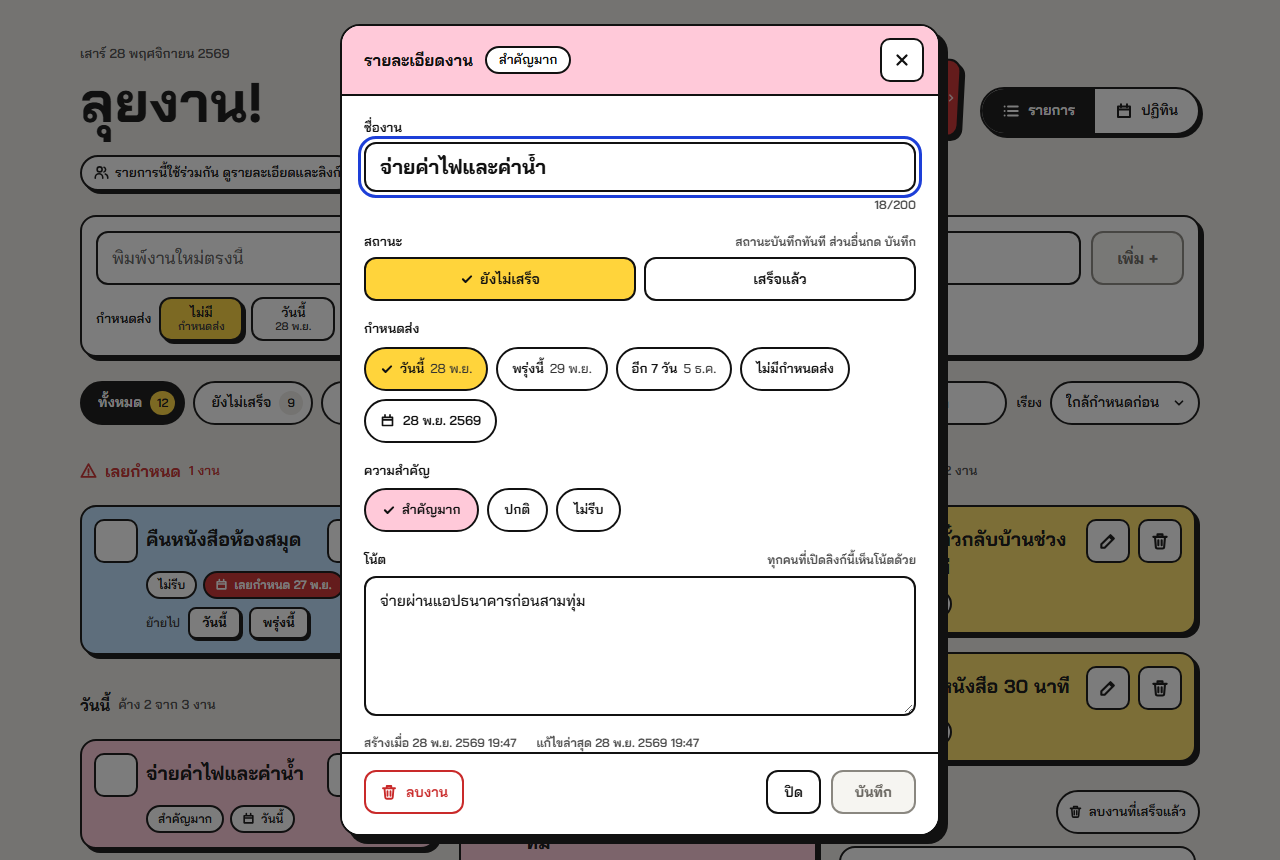
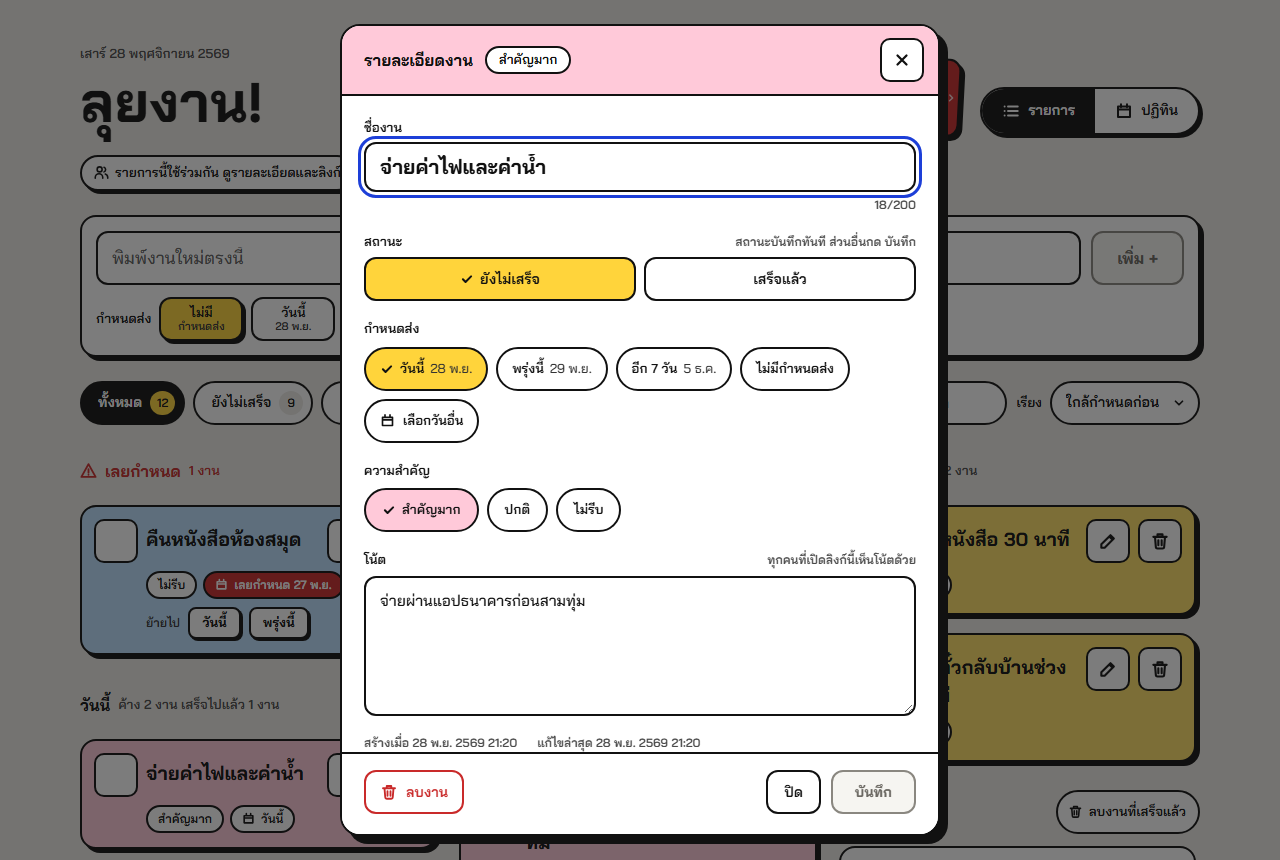
Round 6 user-view fixes: search vs filter, today heading, past-date hints, calendar month panel, chip fit at 360px, detail focus and labels, toasts, lone group grid, sort label

diff --git a/src/composables/useListUi.ts b/src/composables/useListUi.ts
@@ -20,7 +20,7 @@ export const FILTERS: { key: FilterKey; label: string }[] = [
 export const SORTS: { key: SortKey; label: string }[] = [
   { key: 'due', label: 'ใกล้กำหนดก่อน' },
   { key: 'priority', label: 'สำคัญก่อน' },
-  { key: 'newest', label: 'เพิ่มล่าสุด' },
+  { key: 'newest', label: 'เพิ่มล่าสุดก่อน' },
 ]
 
 function matches(done: boolean, t: Todo, f: FilterKey): boolean {
@@ -122,9 +122,14 @@ export interface NoteHit {
 export function useListUi() {
   const { todos, effDone, todayProgress } = useTodos()
 
+  const hit = (t: Todo, q: string) => !q || t.title.toLowerCase().includes(q) || (t.notes ?? '').toLowerCase().includes(q)
+
+  /** Chip numbers. While searching they count the matches, so they agree with the cards (round 6, M5). */
   const counts = computed(() => {
+    const q = query.value.trim().toLowerCase()
     const out: Record<FilterKey, number> = { all: 0, active: 0, done: 0, overdue: 0 }
     for (const t of todos.value) {
+      if (!hit(t, q)) continue
       for (const f of FILTERS) if (matches(t.is_completed, t, f.key)) out[f.key]++
     }
     return out
@@ -132,12 +137,13 @@ export function useListUi() {
 
   const visible = computed(() => {
     const q = query.value.trim().toLowerCase()
-    return todos.value.filter(
-      (t) =>
-        matches(effDone(t), t, filter.value) &&
-        (!q || t.title.toLowerCase().includes(q) || (t.notes ?? '').toLowerCase().includes(q)),
-    )
+    return todos.value.filter((t) => matches(effDone(t), t, filter.value) && hit(t, q))
   })
+
+  /** A search found nothing under the chosen filter, but it does match tasks under ทั้งหมด (round 6, M1). */
+  const hiddenByFilter = computed(() =>
+    query.value.trim() && filter.value !== 'all' && visible.value.length === 0 ? counts.value.all : 0,
+  )
 
   /**
    * The visible tasks cut into labelled groups in the order of the chosen sort. Done tasks are
@@ -164,9 +170,11 @@ export function useListUi() {
       else items.sort(byNewest)
       const count = items.filter((t) => t.is_completed === (key === 'done')).length
       let countText = `${count} งาน`
-      if (key === 'today' && s === 'due') {
+      // Today's group under ทั้งหมด: the done ones sit in เสร็จแล้ว, so say how many went there
+      // instead of "2 จาก 3" over two cards (round 6, M5). Same totals as the yellow sticker.
+      if (key === 'today' && s === 'due' && filter.value === 'all' && !query.value.trim()) {
         const { done, total } = todayProgress.value
-        if (done > 0) countText = `ค้าง ${total - done} จาก ${total} งาน`
+        if (done > 0) countText = `ค้าง ${total - done} งาน เสร็จไปแล้ว ${done} งาน`
       }
       out.push({ key, label: GROUP_LABEL[key], items, count, countText })
     }
@@ -210,6 +218,10 @@ export function useListUi() {
 
   const emptyText = computed(() => {
     const q = query.value.trim()
+    if (q && hiddenByFilter.value) {
+      const label = FILTERS.find((f) => f.key === filter.value)?.label ?? ''
+      return `ไม่พบ “${q}” ใน${label} แต่มีในงานทั้งหมด ${hiddenByFilter.value} งาน`
+    }
     if (q) return `ไม่พบงานที่ตรงกับ “${q}”`
     if (filter.value === 'active') return 'ไม่มีงานค้าง เคลียร์หมดแล้ว'
     if (filter.value === 'done') return 'ยังไม่มีงานที่เสร็จ'
@@ -238,6 +250,7 @@ export function useListUi() {
     visible,
     groups,
     emptyText,
+    hiddenByFilter,
     toggleSearch,
     tickMessage,
     noteHit,

diff --git a/src/components/DetailDialog.vue b/src/components/DetailDialog.vue
@@ -54,6 +54,7 @@ const original = ref<Draft>({ ...draft })
 
 const section = ref<HTMLElement | null>(null)
 const titleInput = ref<HTMLInputElement | null>(null)
+const headingEl = ref<HTMLElement | null>(null)
 const keepButton = ref<HTMLButtonElement | null>(null)
 
 const showConfirm = ref(false)
@@ -91,9 +92,14 @@ watch(
     statusNote.value = ''
     clearErrors()
     // An old error toast would only cover the dialog; the dialog shows its own errors (R2-07).
-    if (toast.value?.kind === 'error') dismissToast()
+    // A plain notice (copied link, saved) would cover its heading too; only a toast with a
+    // button, like เลิกทำ, stays (round 6, L4).
+    if (toast.value && (toast.value.kind === 'error' || !toast.value.actionLabel)) dismissToast()
     await nextTick()
-    titleInput.value?.focus()
+    // On a touch screen focusing the title would open the keyboard over the sheet when the
+    // person only wants to read; focus the heading there instead (round 6, L2).
+    if (window.matchMedia('(pointer: coarse)').matches) headingEl.value?.focus()
+    else titleInput.value?.focus()
   },
   { immediate: true },
 )
@@ -323,7 +329,7 @@ const sectionClass = toRef(() =>
         :class="band"
       >
         <div class="flex flex-wrap items-center gap-x-3 gap-y-0.5">
-          <h2 :id="ids.heading" class="m-0 text-[0.9375rem] leading-normal font-bold sm:text-[1rem]">รายละเอียดงาน</h2>
+          <h2 :id="ids.heading" ref="headingEl" tabindex="-1" class="m-0 focus:outline-none text-[0.9375rem] leading-normal font-bold sm:text-[1rem]">รายละเอียดงาน</h2>
           <!-- Importance always, and done as a badge of its own, so neither replaces the other (U7). -->
           <span class="rounded-full border-2 bg-white px-3 py-0.5 text-[0.8125rem] leading-normal font-semibold" data-detail-priority>
             {{ PRIORITY_LABEL[draft.priority] }}
@@ -357,7 +363,6 @@ const sectionClass = toRef(() =>
               :aria-describedby="ids.titleCount"
               :aria-invalid="!!titleError"
               class="field box-border h-12.5 text-[1.0625rem] font-bold sm:text-[1.25rem]"
-              :class="draft.is_completed && 'line-through'"
             />
             <div class="flex justify-between gap-2">
               <span v-if="titleError" role="alert" class="text-[0.75rem] leading-normal font-semibold text-danger">
@@ -396,7 +401,7 @@ const sectionClass = toRef(() =>
           <div class="flex flex-col gap-2">
             <span :id="ids.due" class="label">กำหนดส่ง</span>
             <div role="group" :aria-labelledby="ids.due" class="flex">
-              <DuePicker v-model="draft.due" :done="draft.is_completed" />
+              <DuePicker v-model="draft.due" :done="draft.is_completed" :saved="original.due" />
             </div>
             <div
               v-if="overdueNow"

diff --git a/src/views/ListView.vue b/src/views/ListView.vue
@@ -18,7 +18,7 @@ import { estimateCard, splitColumns } from '../utils/columns'
 import { isOverdue, today } from '../utils/date'
 
 const { status, total } = useTodos()
-const { groups, emptyText, noteHit } = useListUi()
+const { groups, emptyText, noteHit, hiddenByFilter, filter } = useListUi()
 const isSm = useIsSm()
 const isLg = useIsLg()
 const { sheetOpen, fabShown, openSheet, due, priority } = useAddForm()
@@ -49,6 +49,9 @@ const columns = computed(() => {
     return estimateCard(t, extra)
   })
 })
+/* One group alone (for example the เสร็จแล้ว filter) fills the width as a grid of cards instead of one narrow column (round 6, L8). */
+const lone = computed(() => isSm.value && groups.value.length === 1)
+
 const grid =
   'm-0 grid list-none gap-3 p-0 pr-1 pb-1 sm:grid-cols-[repeat(auto-fill,minmax(17.5rem,1fr))] sm:gap-4.5 lg:grid-cols-[repeat(auto-fill,minmax(20rem,1fr))]'
 </script>
@@ -82,8 +85,31 @@ const grid =
         class="col-span-full rounded-2xl border-2 border-dashed px-4 py-7 text-center text-[0.9375rem] leading-normal font-bold sm:py-10 sm:text-[1rem]"
       >
         {{ emptyText }}
+        <div v-if="hiddenByFilter" class="mt-3 flex justify-center">
+          <button type="button" class="btn-pill bg-white px-4 text-[0.875rem] font-semibold" data-show-all @click="filter = 'all'">ดูในทั้งหมด</button>
+        </div>
       </li>
     </ul>
+    <section v-else-if="lone" class="flex flex-col gap-2.5 sm:gap-3" :aria-labelledby="`group-${groups[0].key}`" :data-group="groups[0].key" data-card-list>
+      <div class="flex min-h-11 flex-wrap items-center justify-between gap-x-3 gap-y-1.5">
+        <h2
+          :id="`group-${groups[0].key}`"
+          tabindex="-1"
+          class="m-0 flex scroll-mt-4 items-center gap-2 text-[0.9375rem] leading-normal font-bold focus:outline-none sm:text-[1rem]"
+          :class="groups[0].key === 'overdue' && 'text-danger'"
+        >
+          <Icon v-if="groups[0].key === 'overdue'" name="alert" :size="17" :stroke="2.6" />
+          {{ groups[0].label }}
+          <span class="text-[0.8125rem] font-semibold" :class="groups[0].key === 'overdue' ? 'text-danger' : 'text-muted'">
+            {{ groups[0].countText }}
+          </span>
+        </h2>
+        <ClearDone v-if="groups[0].key === 'done'" />
+      </div>
+      <ul :class="[grid, 'items-start']">
+        <TodoCard v-for="t in groups[0].items" :key="t.id" :todo="t" />
+      </ul>
+    </section>
     <div v-else class="grid items-start gap-x-4.5 gap-y-6 sm:grid-cols-2 lg:grid-cols-3" data-card-list>
       <div v-for="(col, ci) in columns" :key="ci" class="flex min-w-0 flex-col gap-6" data-column>
         <section

diff --git a/src/components/DuePicker.vue b/src/components/DuePicker.vue
@@ -13,8 +13,10 @@ const props = withDefaults(
     modelValue: string
     /** The task is already done, so a past date will not make it overdue. */
     done?: boolean
+    /** The date the task has now: no "you picked a past date" hint for it (round 6, M3). */
+    saved?: string
   }>(),
-  { done: false },
+  { done: false, saved: undefined },
 )
 const emit = defineEmits<{ 'update:modelValue': [value: string] }>()
 
@@ -26,6 +28,8 @@ const value = computed({
 
 /** A date already gone: allowed, but say it will be overdue at once (UI 6). */
 const past = computed(() => !props.done && isPastDate(props.modelValue, today.value))
+/** The hint only for a past date picked just now; the saved one has the red move box (round 6, M3). */
+const pastHint = computed(() => past.value && props.modelValue !== props.saved)
 /** A picked date that is none of the quick options: the date pill is the selected one (UI 13). */
 const custom = computed(() => !!props.modelValue && !dueOptions(today.value).some((o) => o.value === props.modelValue))
 </script>
@@ -53,16 +57,17 @@ const custom = computed(() => !!props.modelValue && !dueOptions(today.value).som
           class="box-border flex h-11 items-center gap-2 rounded-full border-2 px-3.5 text-[0.8125rem] font-semibold"
           :class="past ? 'border-danger bg-[#ffe3e3] text-[#8f1d1d]' : custom ? 'bg-accent' : 'bg-white'"
           :data-date-pill="custom ? 'selected' : undefined"
-          :aria-label="props.modelValue ? `เลือกวัน ${fullShortDate(props.modelValue)}` : 'เลือกวัน'"
-          :aria-describedby="past ? hintId : undefined"
+          :aria-label="custom ? `เลือกวัน ${fullShortDate(props.modelValue)}` : 'เลือกวันอื่น'"
+          :aria-describedby="pastHint ? hintId : undefined"
         >
           <Icon v-if="custom" name="check" :size="14" :stroke="3.5" />
           <Icon v-else name="calendar" :size="15" />
-          <span aria-hidden="true">{{ props.modelValue ? fullShortDate(props.modelValue) : 'เลือกวัน' }}</span>
+          <!-- A date that a quick option already shows is not repeated here (round 6, L1). -->
+          <span aria-hidden="true">{{ custom ? fullShortDate(props.modelValue) : 'เลือกวันอื่น' }}</span>
         </button>
       </template>
     </ThaiDatePicker>
-    <p v-if="past" :id="hintId" data-past-hint class="m-0 w-full text-[0.8125rem] leading-normal font-semibold text-danger">
+    <p v-if="pastHint" :id="hintId" data-past-hint class="m-0 w-full text-[0.8125rem] leading-normal font-semibold text-danger">
       {{ PAST_DATE_HINT }}
     </p>
   </div>

diff --git a/src/views/CalendarView.vue b/src/views/CalendarView.vue
@@ -64,9 +64,11 @@ async function onCellKey(e: KeyboardEvent, c: Cell) {
   document.querySelector<HTMLElement>(`[data-day="${iso}"]`)?.focus()
 }
 
+/** The panel follows the month: today when it is in that month, else the 1st (round 6, M4). */
 function shiftMonth(n: number) {
   const d = parseISO(monthStart.value)
   monthStart.value = toISO(new Date(d.getFullYear(), d.getMonth() + n, 1))
+  selected.value = firstOfMonth(today.value) === monthStart.value ? today.value : monthStart.value
 }
 
 /** Picking a day from another month switches the grid to that month. */
@@ -219,8 +221,15 @@ const navBtn =
             <span
               v-for="t in on(c.iso).slice(0, 2)"
               :key="t.id"
-              class="box-border block h-7 overflow-hidden rounded-md border-2 px-1.5 text-[0.75rem] leading-6 font-semibold text-ellipsis whitespace-nowrap"
-              :class="chipClass(t)"
+              class="box-border block overflow-hidden rounded-md border-2 px-1.5 text-[0.75rem] leading-6 font-semibold text-ellipsis"
+              :class="[
+                chipClass(t),
+                // A day with one task has room for its title on two lines at the same 24 px line
+                // height, so tone marks are not cut (UI-8) and the cell does not grow (round 6, L7).
+                on(c.iso).length === 1
+                  ? 'h-7 whitespace-nowrap lg:line-clamp-2 lg:h-auto lg:max-h-13 lg:whitespace-normal lg:break-words'
+                  : 'h-7 whitespace-nowrap',
+              ]"
               :title="t.title"
             >
               {{ t.title }}
@@ -242,10 +251,10 @@ const navBtn =
             <span class="box-border size-4 rounded border-2 bg-low"></span>ไม่รีบ
           </span>
           <span class="flex items-center gap-1.5">
-            <span class="box-border size-4 rounded border-2 bg-white"></span>เสร็จแล้ว
+            <span class="box-border size-4 rounded border-2 bg-danger"></span>เลยกำหนด
           </span>
           <span class="flex items-center gap-1.5">
-            <span class="box-border size-4 rounded border-2 bg-danger"></span>เลยกำหนด
+            <span class="box-border size-4 rounded border-2 bg-white"></span>เสร็จแล้ว
           </span>
         </div>
       </template>

diff --git a/src/components/QuickDue.vue b/src/components/QuickDue.vue
@@ -43,7 +43,7 @@ const opt =
         data-due-none
         @click="choose('')"
       >
-        <span class="text-[0.8125rem] max-[22.5rem]:text-[0.75rem]" aria-hidden="true">ไม่มี</span>
+        <span class="text-[0.8125rem] max-[25rem]:text-[0.75rem]" aria-hidden="true">ไม่มี</span>
         <span class="text-[0.6875rem] text-[#333]" aria-hidden="true">กำหนดส่ง</span>
       </button>
       <button
@@ -55,7 +55,7 @@ const opt =
         :data-due-quick="o.label"
         @click="choose(o.value)"
       >
-        <span class="text-[0.8125rem] max-[22.5rem]:text-[0.75rem]">{{ o.label }}</span>
+        <span class="text-[0.8125rem] max-[25rem]:text-[0.75rem]">{{ o.label }}</span>
         <span class="text-[0.6875rem] text-[#333]">{{ shortDate(o.value) }}</span>
       </button>
       <ThaiDatePicker v-model="model" class="flex min-w-0">
@@ -68,8 +68,8 @@ const opt =
             :aria-label="custom ? `เลือกวัน ${fullShortDate(model)}` : 'เลือกวัน วันอื่น'"
             :aria-describedby="past ? hintId : undefined"
           >
-            <span class="flex items-center gap-1 text-[0.8125rem] max-[22.5rem]:text-[0.75rem] whitespace-nowrap" aria-hidden="true">
-              <Icon :name="custom ? 'check' : 'calendar'" :size="13" :stroke="custom ? 3.5 : 2.6" class="max-[22.5rem]:hidden" />
+            <span class="flex items-center gap-1 text-[0.8125rem] max-[25rem]:text-[0.75rem] whitespace-nowrap" aria-hidden="true">
+              <Icon :name="custom ? 'check' : 'calendar'" :size="13" :stroke="custom ? 3.5 : 2.6" class="max-[25rem]:hidden" />
               เลือกวัน
             </span>
             <span class="text-[0.6875rem]" :class="!custom && 'text-[#333]'" aria-hidden="true">

diff --git a/README.md b/README.md
@@ -94,7 +94,7 @@ repo นี้คือส่วนหน้าเว็บที่คนใช
 
 ป้ายเหลืองมุมขวาบนบอกว่างานที่ต้องส่งวันนี้เสร็จไปกี่งานแล้ว เช่น 1/3 คือเสร็จ 1 จาก 3 งาน ป้ายแดงบอกว่ามีงานที่เลยกำหนดแล้วกี่งาน กดป้ายแล้วจะพาไปที่งานกลุ่มนั้น
 
-งานจัดเป็นกลุ่มให้อัตโนมัติตามวิธีเรียงที่เลือก แบบเริ่มต้นคือใกล้กำหนดก่อน แบ่งเป็น เลยกำหนด วันนี้ 7 วันข้างหน้า หลังจากนั้น ไม่มีกำหนดส่ง และเสร็จแล้ว ถ้าเรียงตามความสำคัญหรืองานที่เพิ่มล่าสุด กลุ่มจะเปลี่ยนตามนั้น ด้านบนมีปุ่มกรอง ทั้งหมด ยังไม่เสร็จ เสร็จแล้ว และเลยกำหนด มีช่องค้นหาที่หาได้ทั้งจากชื่องานและโน้ต และเลือกเรียงตามวันกำหนดส่ง ความสำคัญ หรืองานที่เพิ่มล่าสุดได้ งานที่เลยกำหนดมีปุ่ม ย้ายไปวันนี้ หรือพรุ่งนี้ ให้กดครั้งเดียว
+งานจัดเป็นกลุ่มให้อัตโนมัติตามวิธีเรียงที่เลือก แบบเริ่มต้นคือใกล้กำหนดก่อน แบ่งเป็น เลยกำหนด วันนี้ 7 วันข้างหน้า หลังจากนั้น ไม่มีกำหนดส่ง และเสร็จแล้ว ถ้าเรียงตามความสำคัญหรืองานที่เพิ่มล่าสุด กลุ่มจะเปลี่ยนตามนั้น ด้านบนมีปุ่มกรอง ทั้งหมด ยังไม่เสร็จ เสร็จแล้ว และเลยกำหนด มีช่องค้นหาที่หาได้ทั้งจากชื่องานและโน้ต ระหว่างค้นหา ตัวเลขบนปุ่มกรองจะนับเฉพาะงานที่ตรงกับคำค้น และถ้าคำค้นไปเจองานที่ซ่อนอยู่ในตัวกรองอื่น แอปจะบอกพร้อมปุ่มพาไปดู และเลือกเรียงตามวันกำหนดส่ง ความสำคัญ หรืองานที่เพิ่มล่าสุดได้ งานที่เลยกำหนดมีปุ่ม ย้ายไปวันนี้ หรือพรุ่งนี้ ให้กดครั้งเดียว
 
 <table>
 <tr>
